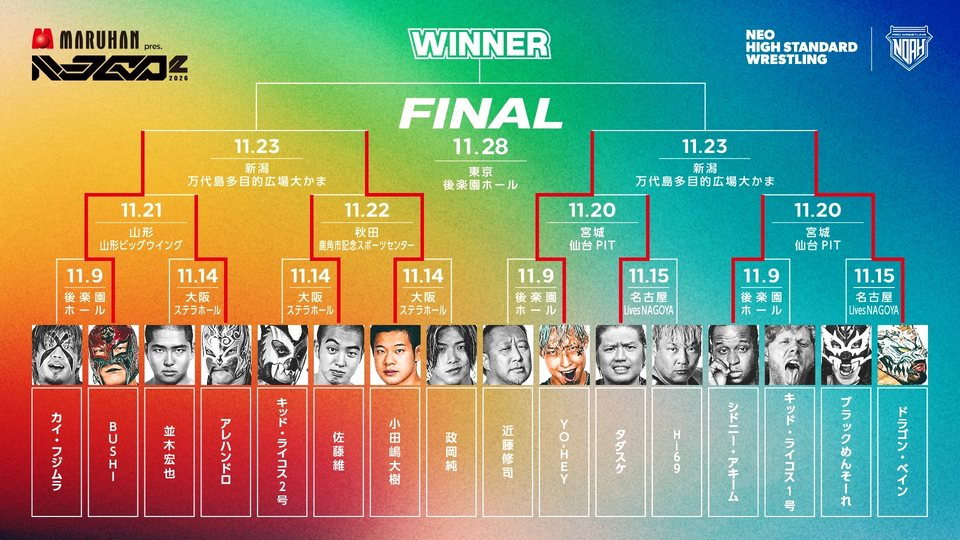
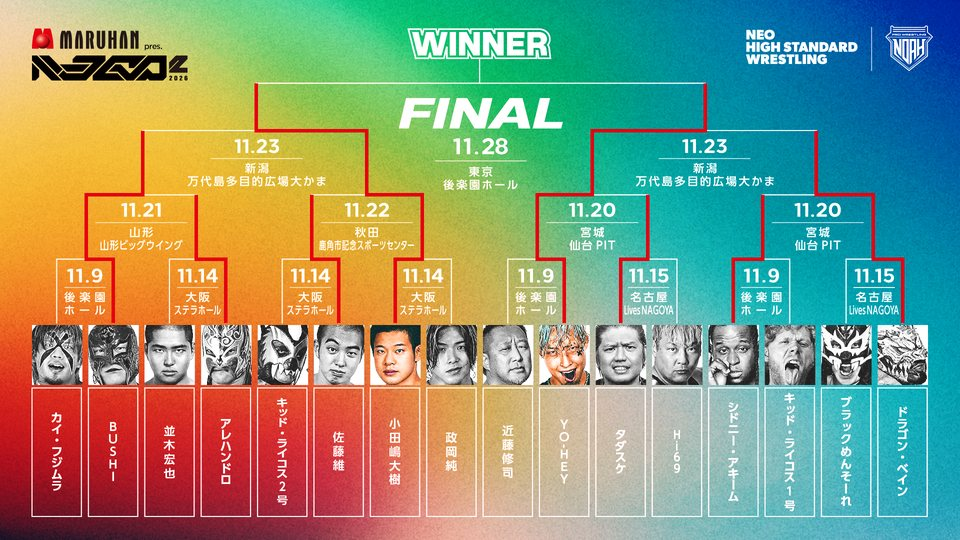
update njgp2 2026-11-24_0022 準決勝結果・決勝カード反映
Claude-Session: https://claude.ai/code/session_01JXWingNeHj69xHsnTpPTs4

diff --git a/njgp2/index.html b/njgp2/index.html
@@ -440,12 +440,18 @@ ul{list-style:none}
 
   <section id="round1" class="sec">
     <div class="wrap">
-      <div class="sec__head"><p class="sec__en">MATCH CARDS</p><h2 class="sec__ja">対戦カード</h2><span class="sec__rule"></span></div><div class="rd"><h3 class="rd__t"><span class="en">SEMI-FINAL</span>準決勝</h3>
+      <div class="sec__head"><p class="sec__en">MATCH CARDS</p><h2 class="sec__ja">対戦カード</h2><span class="sec__rule"></span></div><div class="rd"><h3 class="rd__t"><span class="en">FINAL</span>決勝</h3>
+        <div class="r1">
+          <p class="r1__day"><span class="en">11.28</span><small>SAT</small>東京・後楽園ホール</p>
+          <div class="r1__grid">
+          <figure class="vs"><img src="img/vs_yohey_odashima_960.jpg" srcset="img/vs_yohey_odashima_960.jpg 960w, img/vs_yohey_odashima.jpg 1920w" sizes="(max-width:900px) 100vw, 540px" alt="YO-HEY vs 小田嶋大樹" width="1920" height="1080" loading="lazy"><figcaption><b>FINAL</b>YO-HEY<i>vs</i>小田嶋大樹</figcaption></figure>
+          </div>
+        </div></div><div class="rd"><h3 class="rd__t"><span class="en">SEMI-FINAL</span>準決勝</h3>
         <div class="r1">
           <p class="r1__day"><span class="en">11.23</span><small>MON・祝</small>新潟・万代島多目的広場大かま</p>
           <div class="r1__grid">
-          <figure class="vs vs--txt box"><figcaption><b>SF1</b>BUSHI<i>vs</i>小田嶋大樹<small class="m__note">※11.21 ❸の勝者 vs 11.22 ❹の勝者</small></figcaption></figure>
-          <figure class="vs vs--txt box"><figcaption><b>SF2</b>YO-HEY<i>vs</i>ドラゴン・ベイン<small class="m__note">※11.20 ❶の勝者 vs 11.20 ❷の勝者</small></figcaption></figure>
+          <figure class="vs vs--txt box"><figcaption><b>SF1</b><span class="m__l">BUSHI</span><i>vs</i><span class="m__w">小田嶋大樹<em class="en">WIN</em></span></figcaption></figure>
+          <figure class="vs"><img src="img/vs_yohey_bane_960.jpg" srcset="img/vs_yohey_bane_960.jpg 960w, img/vs_yohey_bane.jpg 1920w" sizes="(max-width:900px) 100vw, 540px" alt="YO-HEY vs ドラゴン・ベイン" width="1920" height="1080" loading="lazy"><figcaption><b>SF2</b><span class="m__w">YO-HEY<em class="en">WIN</em></span><i>vs</i><span class="m__l">ドラゴン・ベイン</span></figcaption></figure>
           </div>
         </div></div><div class="rd"><h3 class="rd__t"><span class="en">2ND ROUND</span>2回戦</h3>
         <div class="r1">
@@ -562,7 +568,7 @@ ul{list-style:none}
           <p class="sc__date en">11.23<small>MON・祝</small></p>
           <p class="sc__venue">新潟・万代島多目的広場大かま</p>
           <p class="sc__time">開場 <b class="en">16:30</b>　開始 <b class="en">17:30</b></p><a class="sc__mh" href="#maruhan">マルハンコラボブース・撮影会</a>
-          <details class="sc__cards"><summary>対戦カード</summary><ul><li><b>SF1</b><span>BUSHI <i>vs</i> 小田嶋大樹<small class="m__note">※11.21 ❸の勝者 vs 11.22 ❹の勝者</small></span></li><li><b>SF2</b><span>YO-HEY <i>vs</i> ドラゴン・ベイン<small class="m__note">※11.20 ❶の勝者 vs 11.20 ❷の勝者</small></span></li></ul></details>
+          <details class="sc__cards"><summary>対戦カード</summary><ul><li><b>SF1</b><span>BUSHI <i>vs</i> 小田嶋大樹</span></li><li><b>SF2</b><span>YO-HEY <i>vs</i> ドラゴン・ベイン</span></li></ul></details>
           <p class="sc__tour">〜LETHAL ODYSSEY TOUR 2026〜</p>
           <a class="sc__tv sc__tv--wu" href="https://www.wrestle-universe.com/ja/noah" target="_blank" rel="noopener"><small>放送・配信</small>WRESTLE UNIVERSEで生中継&nbsp;↗</a>
           <a class="sc__map" href="https://www.google.com/maps/search/?api=1&query=%E4%B8%87%E4%BB%A3%E5%B3%B6%E5%A4%9A%E7%9B%AE%E7%9A%84%E5%BA%83%E5%A0%B4%20%E5%A4%A7%E3%81%8B%E3%81%BE" target="_blank" rel="noopener">会場の地図 ↗</a>
@@ -572,7 +578,7 @@ ul{list-style:none}
           <p class="sc__date en">11.28<small>SAT</small></p>
           <p class="sc__venue">東京・後楽園ホール</p>
           <p class="sc__time">開場 <b class="en">17:30</b>　開始 <b class="en">18:30</b></p>
-          <details class="sc__cards"><summary>対戦カード</summary><ul><li><b>FINAL</b><span>準決勝(1)の勝者<i>vs</i>準決勝(2)の勝者</span></li></ul></details>
+          <details class="sc__cards"><summary>対戦カード</summary><ul><li><b>FINAL</b><span>YO-HEY <i>vs</i> 小田嶋大樹</span></li></ul></details>
           <p class="sc__tour">〜LEGACY RISE 2026〜</p>
           <a class="sc__tv sc__tv--abema" href="https://abema.tv/video/genre/fightingsports" target="_blank" rel="noopener"><small>放送・配信</small>ABEMAで無料生中継&nbsp;↗</a>
           <a class="sc__map" href="https://www.google.com/maps/search/?api=1&query=%E5%BE%8C%E6%A5%BD%E5%9C%92%E3%83%9B%E3%83%BC%E3%83%AB" target="_blank" rel="noopener">会場の地図 ↗</a>
@@ -585,6 +591,9 @@ ul{list-style:none}
     <div class="wrap">
       <div class="sec__head"><p class="sec__en">NEWS</p><h2 class="sec__ja">ニュース</h2><span class="sec__rule"></span></div>
       <ul class="nws">
+        <li><a class="nw" href="https://www.noah.co.jp/news/8827/" target="_blank" rel="noopener"><img src="img/nw_8827.jpg" alt="" width="480" height="270" loading="lazy"><span class="nw__b"><span class="nw__m"><time class="en">2026.11.23</time><small>大会情報</small></span><span class="nw__t">＜Jr.トーナメント、いよいよ決勝戦！／GHCナショナル選手権試合、決定！＞【11.28 後楽園】全カード決定のお知らせ</span></span></a></li>
+        <li><a class="nw" href="https://www.noah.co.jp/news/8825/" target="_blank" rel="noopener"><img src="img/nw_8825.jpg" alt="" width="480" height="270" loading="lazy"><span class="nw__b"><span class="nw__m"><time class="en">2026.11.23</time><small>インタビュー</small></span><span class="nw__t">【11.22秋田 バックステージコメント】小田嶋が佐藤維を振り切り2回戦突破、準決勝へ</span></span></a></li>
+        <li><a class="nw" href="https://www.noah.co.jp/news/8824/" target="_blank" rel="noopener"><img src="img/nw_8824.jpg" alt="" width="480" height="270" loading="lazy"><span class="nw__b"><span class="nw__m"><time class="en">2026.11.22</time><small>大会情報</small></span><span class="nw__t">＜「マルハン presents NOAH Jr. GRAND PRIX 2」決勝進出者が決まる！＞【11.23 新潟】全対戦カード決定のお知らせ</span></span></a></li>
         <li><a class="nw" href="https://www.noah.co.jp/news/8823/" target="_blank" rel="noopener"><img src="img/nw_8823.jpg" alt="" width="480" height="270" loading="lazy"><span class="nw__b"><span class="nw__m"><time class="en">2026.11.22</time><small>インタビュー</small></span><span class="nw__t">【11.21山形 バックステージコメント】BUSHIがアレハンドロを下しジュニアGP4強入り</span></span></a></li>
         <li><a class="nw" href="https://www.noah.co.jp/news/8822/" target="_blank" rel="noopener"><img src="img/nw_8822.jpg" alt="" width="480" height="270" loading="lazy"><span class="nw__b"><span class="nw__m"><time class="en">2026.11.21</time><small>インタビュー</small></span><span class="nw__t">【11.20仙台 バックステージコメント】ベインがシドニーを破り準決勝へ▼YO-HEYがタダスケとの同門対決を制し4強一番乗り</span></span></a></li>
         <li><a class="nw" href="https://www.noah.co.jp/news/8801/" target="_blank" rel="noopener"><img src="img/nw_8801.jpg" alt="" width="480" height="270" loading="lazy"><span class="nw__b"><span class="nw__m"><time class="en">2026.11.21</time><small>大会情報</small></span><span class="nw__t">【当日券発売します！】11月23日 新潟・万代島多目的広場大かま大会 チケット直前情報</span></span></a></li>
@@ -594,10 +603,10 @@ ul{list-style:none}
         <li><a class="nw" href="https://www.noah.co.jp/news/8813/" target="_blank" rel="noopener"><img src="img/nw_8813.jpg" alt="" width="480" height="270" loading="lazy"><span class="nw__b"><span class="nw__m"><time class="en">2026.11.19</time><small>大会情報</small></span><span class="nw__t">【マルハン×NOAH】3Shotリングサイド撮影会 11.22秋田大会は小峠篤司が登場！</span></span></a></li>
         <li><a class="nw" href="https://www.noah.co.jp/news/8812/" target="_blank" rel="noopener"><img src="img/nw_8812.jpg" alt="" width="480" height="270" loading="lazy"><span class="nw__b"><span class="nw__m"><time class="en">2026.11.19</time><small>大会情報</small></span><span class="nw__t">【マルハン×NOAH】3Shotリングサイド撮影会 11.21山形大会はアレハンドロが登場！</span></span></a></li>
         <li><a class="nw" href="https://www.noah.co.jp/news/8811/" target="_blank" rel="noopener"><img src="img/nw_8811.jpg" alt="" width="480" height="270" loading="lazy"><span class="nw__b"><span class="nw__m"><time class="en">2026.11.19</time><small>大会情報</small></span><span class="nw__t">【マルハン×NOAH】3Shotリングサイド撮影会 11.20仙台大会はYoshiki Inamuraが登場！</span></span></a></li>
+      </ul><details class="more"><summary>過去のニュースを見る（33件）</summary><ul class="nws">
         <li><a class="nw" href="https://www.noah.co.jp/news/8806/" target="_blank" rel="noopener"><img src="img/nw_8806.jpg" alt="" width="480" height="270" loading="lazy"><span class="nw__b"><span class="nw__m"><time class="en">2026.11.19</time><small>大会情報</small></span><span class="nw__t">【NJGP2開催中!】11月21日 山形ビッグウイング大会 直前情報</span></span></a></li>
         <li><a class="nw" href="https://www.noah.co.jp/news/8809/" target="_blank" rel="noopener"><img src="img/nw_8809.jpg" alt="" width="480" height="270" loading="lazy"><span class="nw__b"><span class="nw__m"><time class="en">2026.11.18</time><small>メディア</small></span><span class="nw__t">11月18日発売『週刊プロレス』は11・14梅田＆11・15名古屋の「NOAH Jr. GRAND PRIX 2」1回戦を大詳報！</span></span></a></li>
         <li><a class="nw" href="https://www.noah.co.jp/news/8808/" target="_blank" rel="noopener"><img src="img/nw_8808.jpg" alt="" width="480" height="270" loading="lazy"><span class="nw__b"><span class="nw__m"><time class="en">2026.11.18</time><small>インタビュー</small></span><span class="nw__t">【11.17保土ヶ谷 バックステージコメント】アレハンドロがBUSHIから直接ピン▼シドニーがベインから直接ピン</span></span></a></li>
-      </ul><details class="more"><summary>過去のニュースを見る（30件）</summary><ul class="nws">
         <li><a class="nw" href="https://www.noah.co.jp/news/8805/" target="_blank" rel="noopener"><img src="img/nw_8805.jpg" alt="" width="480" height="270" loading="lazy"><span class="nw__b"><span class="nw__m"><time class="en">2026.11.18</time><small>大会情報</small></span><span class="nw__t">【NJGP2 準々決勝2試合開催!】11月20日 仙台PIT大会 直前情報</span></span></a></li>
         <li><a class="nw" href="https://www.noah.co.jp/news/8799/" target="_blank" rel="noopener"><img src="img/nw_8799.jpg" alt="" width="480" height="270" loading="lazy"><span class="nw__b"><span class="nw__m"><time class="en">2026.11.18</time><small>グッズ</small></span><span class="nw__t">【小田嶋大樹が登場！】11.22 秋田・鹿角市記念スポーツセンター大会 試合前サイン会</span></span></a></li>
         <li><a class="nw" href="https://www.noah.co.jp/news/8798/" target="_blank" rel="noopener"><img src="img/nw_8798.jpg" alt="" width="480" height="270" loading="lazy"><span class="nw__b"><span class="nw__m"><time class="en">2026.11.18</time><small>グッズ</small></span><span class="nw__t">【清宮海斗が登場！】11.21 山形・山形ビッグウイング大会 試合前サイン会</span></span></a></li>

diff --git a/src/njgp2/build.py b/src/njgp2/build.py
@@ -70,7 +70,7 @@ def cards(rnd):
 
 def rounds():  # 新しいラウンドを上に
     out = ''
-    for rnd, en in (('準決勝', 'SEMI-FINAL'), ('2回戦', '2ND ROUND'), ('1回戦', '1ST ROUND')):
+    for rnd, en in (('決勝', 'FINAL'), ('準決勝', 'SEMI-FINAL'), ('2回戦', '2ND ROUND'), ('1回戦', '1ST ROUND')):
         c = cards(rnd)
         if c: out += f'<div class="rd"><h3 class="rd__t"><span class="en">{en}</span>{rnd}</h3>{c}</div>'
     return out
